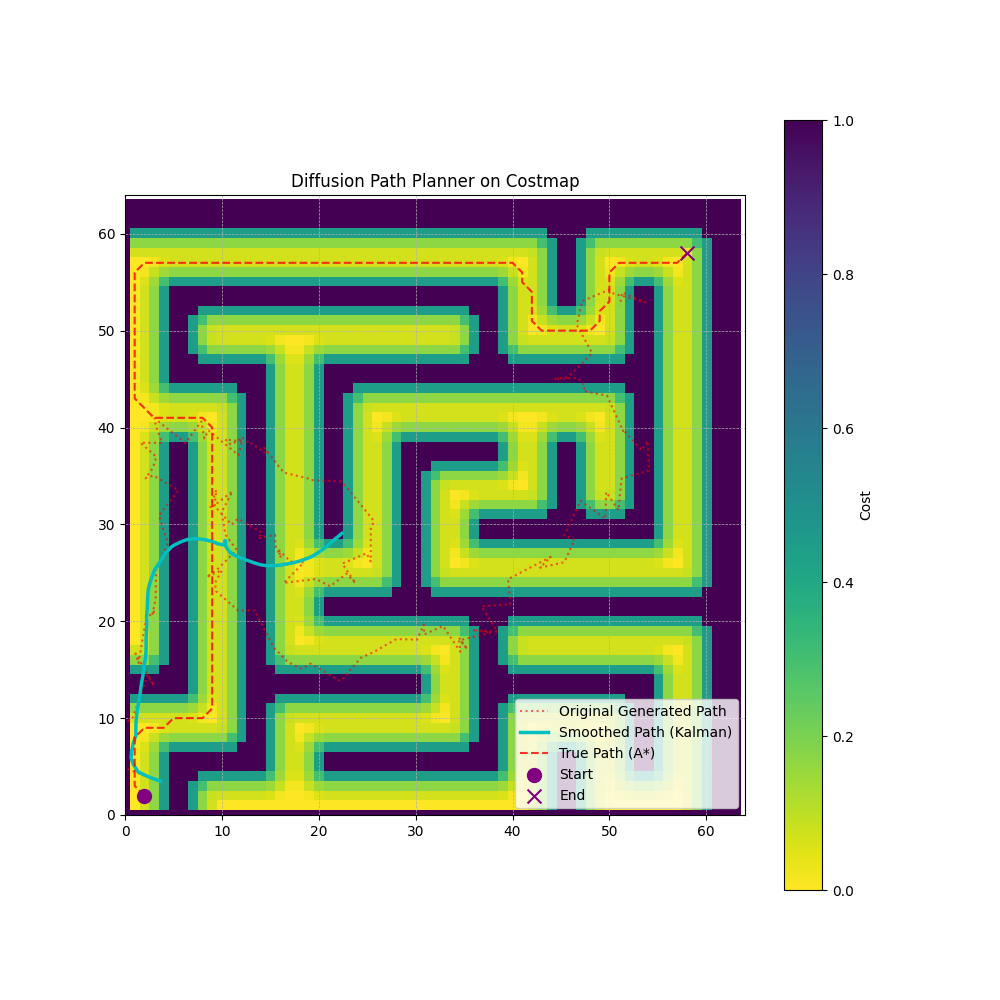
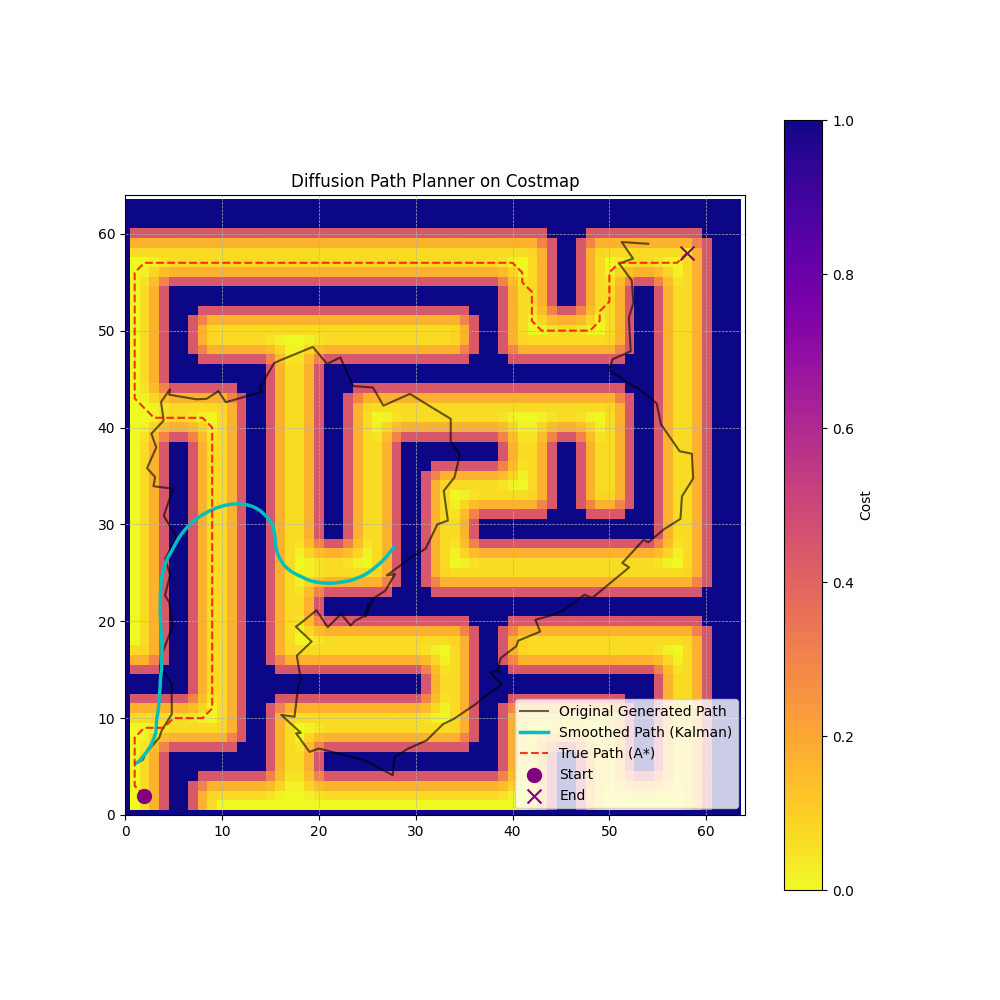
change color_map to plasma

diff --git a/DP_with_costmap/cost_aware_planner/utils.py b/DP_with_costmap/cost_aware_planner/utils.py
@@ -53,7 +53,7 @@ def plot_results(costmap, generated_path, true_path, config):
     plt.figure(figsize=(10, 10))
     
     # 1. Define the desired colormap: low values (0.0) should be bright (yellow).
-    cmap = cm.get_cmap('viridis_r').copy()
+    cmap = cm.get_cmap('plasma_r').copy()
     cmap.set_bad(color='black')
     masked_costmap = np.ma.masked_invalid(costmap_np)
 
@@ -61,7 +61,7 @@ def plot_results(costmap, generated_path, true_path, config):
     plt.imshow(masked_costmap, cmap=cmap, origin='lower', vmin=0, vmax=1.0)
     
     # Plot original generated path (pre-smoothing)
-    plt.plot(gen_path_scaled[:, 1], gen_path_scaled[:, 0], 'r:', alpha=0.6, label='Original Generated Path')
+    plt.plot(gen_path_scaled[:, 1], gen_path_scaled[:, 0], 'k-', alpha=0.6, label='Original Generated Path')
     
     # Plot the smoothed path
     plt.plot(smoothed_path[:, 1], smoothed_path[:, 0], 'c-', linewidth=2.5, label='Smoothed Path (Kalman)')
